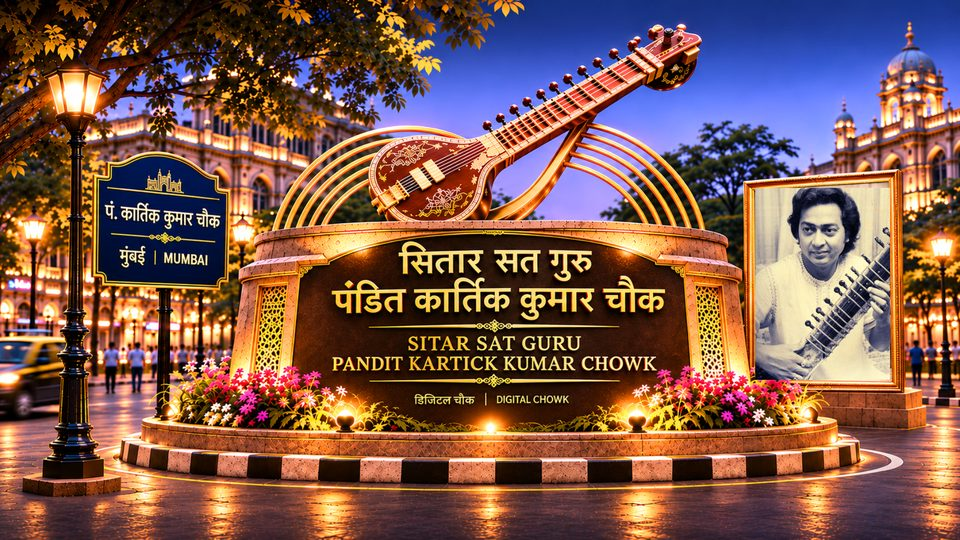
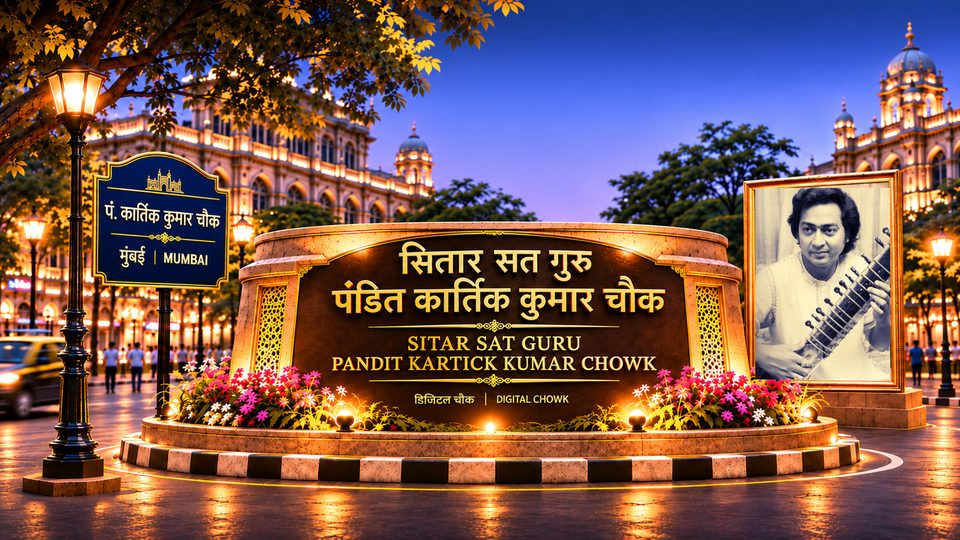
Sitar rests on the Chowk and travels through the page on scroll
- First section uses the new Chowk artwork (without a painted sitar);
  the 3D sitar rests on the monument's rim instead.
- The 3D sitar now lives in one fixed layer above the page and is pinned
  to a stop in each section: Chowk, hero, then the top of the Journey
  street (desktop). Scrolling lifts it, turns it once and glides it to
  the next stop; scrolling back reverses it.
- No-GPU fallback: the cut-out photo sits on the monument instead.
- Slow devices redraw only on scroll; drawing stops when off-screen or
  the tab is hidden. Fix an Escape-key error in the lightbox code.

diff --git a/js/sitar3d.js b/js/sitar3d.js
@@ -51,8 +51,7 @@ async function init() {
   const maxAniso = renderer.capabilities.getMaxAnisotropy();
 
   const scene = new THREE.Scene();
-  const camera = new THREE.PerspectiveCamera(28, 1.2, 0.1, 50);
-  camera.position.set(0, 0, 2.3);
+  const camera = new THREE.PerspectiveCamera(28, 1, 0.1, 50);   // fitted to the window in resize()
 
   /* ---------- deterministic randomness (same grain every load) ---------- */
   let seed = 11;
@@ -461,14 +460,15 @@ async function init() {
     window.__sitarDims = { overall: size(inst), gourd: size(gourdGroup), scale: SCALE, nut: NUT, neck: [NW, ND] };
   }
 
-  /* ---------- assemble: tilt (in-plane lean) -> spin (around its own length) ---------- */
+  /* ---------- assemble: holder (screen place + size) -> tilt (lean) -> spin (around its length) ---------- */
   inst.scale.setScalar(0.01);
   inst.position.y = -0.64;
+  const MODEL_LEN = 1.3;                         // world length of the sitar at holder scale 1
   const spin = new THREE.Group(); spin.add(inst);
-  const tilt = new THREE.Group(); tilt.add(spin); scene.add(tilt);
-  tilt.rotation.set(0.08, 0, -0.93);
+  const tilt = new THREE.Group(); tilt.add(spin);
+  const holder = new THREE.Group(); holder.add(tilt); scene.add(holder);
 
-  /* ---------- lantern motes ---------- */
+  /* ---------- lantern motes (travel with the sitar) ---------- */
   const N = 90, mp = new Float32Array(N * 3), ms = new Float32Array(N);
   for (let i = 0; i < N; i++) {
     mp[i * 3] = (rnd() - 0.5) * 1.9; mp[i * 3 + 1] = (rnd() - 0.5) * 1.4; mp[i * 3 + 2] = rnd() * 0.7 - 0.3;
@@ -478,9 +478,9 @@ async function init() {
   mg.setAttribute('position', new THREE.BufferAttribute(mp, 3));
   mg.setAttribute('aSeed', new THREE.BufferAttribute(ms, 1));
   const moteMat = new THREE.ShaderMaterial({
-    uniforms: { uTime: { value: 0 }, uPR: { value: renderer.getPixelRatio() } },
+    uniforms: { uTime: { value: 0 }, uPR: { value: renderer.getPixelRatio() }, uScale: { value: 1 } },
     vertexShader: `
-      attribute float aSeed; uniform float uTime; uniform float uPR; varying float vA;
+      attribute float aSeed; uniform float uTime; uniform float uPR; uniform float uScale; varying float vA;
       void main(){
         vec3 p = position;
         p.y = mod(p.y + 0.9 + uTime * (0.02 + aSeed * 0.03), 1.8) - 0.9;
@@ -488,7 +488,7 @@ async function init() {
         vec4 mv = modelViewMatrix * vec4(p, 1.0);
         float tw = 0.5 + 0.5 * sin(uTime * (1.4 + aSeed * 2.0) + aSeed * 30.0);
         vA = tw * (1.0 - smoothstep(0.55, 0.9, abs(p.y)));
-        gl_PointSize = (2.0 + aSeed * 3.5) * uPR * (3.6 / -mv.z);
+        gl_PointSize = (2.0 + aSeed * 3.5) * uPR * uScale * (6.0 / -mv.z);
         gl_Position = projectionMatrix * mv;
       }`,
     fragmentShader: `
@@ -504,30 +504,75 @@ async function init() {
   motes.visible = pose === null;
   scene.add(motes);
 
-  /* ---------- mount ---------- */
-  let visible = true, raf = 0, shown = false, still = pose !== null;
+  /* ---------- the sitar's resting places, one per section ----------
+     Each stop is pinned to a page element: `at` is a point in that element's box
+     (fractions), `len` the sitar's on-screen length, `ang` its angle above horizontal.
+     Moving into a stop happens while the element's top scrolls from `from` to `to`
+     (fractions of the viewport height); the sitar lifts, turns once and glides over. */
+  const mobile = () => window.matchMedia('(max-width: 860px)').matches;
+  const STOPS = [
+    // phones crop the image to its middle, so the sitar sits a little smaller and further left there
+    { el: '.chowk-stage', at: () => mobile() ? [0.555, 0.27] : [0.59, 0.245],
+      len: r => r.width * (mobile() ? 0.31 : 0.4), ang: 30 },
+    { el: '.hero', at: () => mobile() ? [0.5, 0.5] : [0.27, 0.5],
+      len: r => mobile() ? Math.min(r.width * 0.95, r.height * 0.62) : Math.min(r.width * 0.42, r.height * 0.7),
+      ang: 37, from: 0.85, to: 0.1 },
+    { el: '.jr-street', at: [0.37, 0.062], len: r => r.width * 0.27, ang: 11, from: 0.95, to: 0.3, desktopOnly: true }
+  ];
+  const ease = t => t * t * (3 - 2 * t);
+  const clamp01 = v => Math.max(0, Math.min(1, v));
+  const lerp = (a, b, t) => a + (b - a) * t;
+
+  function placement() {
+    const vh = window.innerHeight;
+    let p = null, turns = 0, hop = 0;
+    for (const st of STOPS) {
+      if (st.desktopOnly && mobile()) continue;
+      const el = document.querySelector(st.el);
+      if (!el) continue;
+      const r = el.getBoundingClientRect();
+      const at = typeof st.at === 'function' ? st.at() : st.at;
+      const q = { x: r.left + r.width * at[0], y: r.top + r.height * at[1], len: st.len(r), ang: st.ang };
+      if (!p) { p = q; continue; }
+      // never mid-flight before you scroll: start no lower than where this element sits at the top of the page
+      const fromPx = Math.min(st.from * vh, r.top + window.pageYOffset - 1);
+      const toPx = Math.min(st.to * vh, fromPx - 0.35 * vh);
+      const s = ease(clamp01((fromPx - r.top) / (fromPx - toPx)));
+      p = { x: lerp(p.x, q.x, s), y: lerp(p.y, q.y, s), len: lerp(p.len, q.len, s), ang: lerp(p.ang, q.ang, s) };
+      turns += s;
+      hop = Math.max(hop, Math.sin(Math.PI * s));
+    }
+    if (p) p.y -= hop * vh * 0.06;          // a small lift mid-flight
+    return { p, turns, hop };
+  }
+
+  /* ---------- mount: one fixed, page-wide layer above the sections ---------- */
+  let raf = 0, shown = false, still = pose !== null || reduce, wasOff = false;
   let last = 0, frames = 0, slowMs = 0, tier = 0;
   const cvs = renderer.domElement;
-  cvs.className = 'hero-sitar-3d';
+  cvs.className = 'kk-sitar-layer';
   cvs.setAttribute('role', 'img');
-  cvs.setAttribute('aria-label', 'Ornate carved sitar, rendered in 3D');
+  cvs.setAttribute('aria-label', 'Pandit Kartick Kumar\'s sitar in 3D, resting on the chowk and moving through the page as you scroll');
+  document.documentElement.classList.add('kk-3d');
   wrap.classList.add('is-3d');
-  wrap.appendChild(cvs);
-  // if the GPU drops the context, fall back to the static image
+  document.body.appendChild(cvs);
+  // if the GPU drops the context, fall back to the still images
   cvs.addEventListener('webglcontextlost', e => {
     e.preventDefault(); still = true;
     if (raf) cancelAnimationFrame(raf);
-    wrap.classList.remove('is-3d'); cvs.remove();
+    document.documentElement.classList.remove('kk-3d'); wrap.classList.remove('is-3d'); cvs.remove();
   });
 
+  const pixelRatio = () => Math.min(window.devicePixelRatio || 1, tier ? 1 : 1.5);
   function resize() {
-    const w = wrap.clientWidth, h = wrap.clientHeight;
-    if (!w || !h) return;
-    renderer.setSize(w, h, false);
-    camera.aspect = w / h; camera.updateProjectionMatrix();
-    if (reduce || still) render(performance.now());
+    renderer.setPixelRatio(pixelRatio());
+    renderer.setSize(window.innerWidth, window.innerHeight, false);
+    camera.aspect = window.innerWidth / window.innerHeight; camera.updateProjectionMatrix();
+    moteMat.uniforms.uPR.value = renderer.getPixelRatio();
+    requestRender();
   }
-  if (window.ResizeObserver) new ResizeObserver(resize).observe(wrap); else window.addEventListener('resize', resize);
+  camera.fov = 28; camera.position.set(0, 0, 6); camera.updateProjectionMatrix();
+  const worldPerPx = () => 2 * camera.position.z * Math.tan(THREE.MathUtils.degToRad(camera.fov / 2)) / window.innerHeight;
 
   /* ---------- motion ---------- */
   let mx = 0, my = 0, cx = 0, cy = 0;
@@ -538,24 +583,49 @@ async function init() {
   function render(t) {
     const s = t / 1000;
     cx += (mx - cx) * 0.05; cy += (my - cy) * 0.05;
-    const scrollK = Math.max(0, Math.min(-hero.getBoundingClientRect().top / window.innerHeight, 1));
+    const { p, turns } = placement();
+    if (!p) return;
+    const vh = window.innerHeight, vw = window.innerWidth;
+    const off = p.y < -p.len * 0.7 || p.y > vh + p.len * 0.7 || p.x < -p.len || p.x > vw + p.len;
+    if (off) { if (!wasOff) { renderer.clear(); wasOff = true; } return; }
+    wasOff = false;
+
+    const wpp = worldPerPx();
+    const k = p.len * wpp / MODEL_LEN;
+    holder.position.set((p.x - vw / 2) * wpp, -(p.y - vh / 2) * wpp, 0);
+    holder.scale.setScalar(k);
+    motes.position.copy(holder.position); motes.scale.setScalar(k * 1.1);
+    moteMat.uniforms.uScale.value = k;
+
+    const lean = -THREE.MathUtils.degToRad(90 - p.ang);
     if (pose !== null) {
       spin.rotation.y = pose;
-      if (upright) tilt.rotation.set(0, 0, 0);
+      tilt.rotation.set(upright ? 0 : 0.08, 0, upright ? 0 : lean);
     } else if (!reduce) {
-      spin.rotation.y = 0.2 + Math.sin(s * 0.35) * 0.42 + cx * 0.5 + scrollK * 0.7;
-      tilt.rotation.x = 0.08 + cy * 0.18;
-      tilt.rotation.z = -0.93 + Math.sin(s * 0.5) * 0.025;
-      tilt.position.y = Math.sin(s * 0.9) * 0.03;
+      spin.rotation.y = 0.2 + Math.sin(s * 0.35) * 0.3 + cx * 0.45 + turns * Math.PI * 2;
+      tilt.rotation.set(0.08 + cy * 0.15, 0, lean + Math.sin(s * 0.5) * 0.02);
+      holder.position.y += Math.sin(s * 0.9) * 0.012 * k;
     } else {
-      spin.rotation.y = 0.35;
+      spin.rotation.y = 0.25;
+      tilt.rotation.set(0.08, 0, lean);
     }
     moteMat.uniforms.uTime.value = s;
     renderer.render(scene, camera);
+    if (!shown) { shown = true; cvs.classList.add('on'); }
   }
 
-  // Adaptive quality: on a slow GPU drop to 1× resolution, and if that is
-  // still slow, hold a still frame instead of a stuttering animation.
+  // on-demand rendering (scroll / resize) when not animating continuously
+  let pending = false;
+  function requestRender() {
+    if (pending || (!still && raf)) return;
+    pending = true;
+    requestAnimationFrame(t => { pending = false; render(t); });
+  }
+  window.addEventListener('scroll', requestRender, { passive: true });
+  window.addEventListener('resize', resize);
+
+  // Adaptive quality: on a slow GPU drop to 1x resolution, and if that is
+  // still slow, render only when the page scrolls instead of every frame.
   function loop(t) {
     raf = 0;
     if (last) {
@@ -563,24 +633,20 @@ async function init() {
       if (frames > 5 && frames < 70) slowMs += dt;
       if (frames === 69 && slowMs / 64 > 45) {
         if (tier === 0 && renderer.getPixelRatio() > 1) {
-          tier = 1; renderer.setPixelRatio(1); moteMat.uniforms.uPR.value = 1; resize();
-          frames = 0; slowMs = 0;
+          tier = 1; resize(); frames = 0; slowMs = 0;
         } else { still = true; }
       }
     }
     last = t; frames++;
     render(t);
-    if (!shown) { shown = true; cvs.classList.add('on'); }
-    if (visible && !reduce && !still) raf = requestAnimationFrame(loop);
+    if (!still) raf = requestAnimationFrame(loop);
   }
-  if ('IntersectionObserver' in window) {
-    new IntersectionObserver(es => {
-      visible = es[0].isIntersecting;
-      if (visible && !raf && !reduce && !still) { last = 0; raf = requestAnimationFrame(loop); }
-    }).observe(hero);
-  }
+  document.addEventListener('visibilitychange', () => {
+    if (document.hidden) { if (raf) cancelAnimationFrame(raf); raf = 0; }
+    else if (!still && !raf) { last = 0; raf = requestAnimationFrame(loop); }
+  });
   resize();
-  raf = requestAnimationFrame(loop);
+  if (still) requestRender(); else raf = requestAnimationFrame(loop);
 }
 
 init();

diff --git a/css/styles.css b/css/styles.css
@@ -87,9 +87,14 @@ body::before{content:"";position:fixed;inset:0 0 auto;height:env(safe-area-inset
 
 /* ======================= THE CHOWK (opening scene) ======================= */
 .sr-only{position:absolute;width:1px;height:1px;padding:0;margin:-1px;overflow:hidden;clip:rect(0 0 0 0);white-space:nowrap;border:0}
-/* the artwork carries its own lettering, so it is shown whole: full width, never cropped */
+/* the artwork is shown whole on desktop; the 3D sitar (js/sitar3d.js) is pinned to points on this stage */
 .chowk{position:relative;background:#120d14;overflow:hidden}
-.chowk img{display:block;width:100%;height:auto;max-height:100vh;max-height:100svh;object-fit:contain;margin:0 auto}
+.chowk-stage{position:relative;width:min(100%,calc(100svh * 1.7768));aspect-ratio:1672/941;margin:0 auto}
+.chowk-art{position:absolute;inset:0;width:100%;height:100%;display:block}
+/* still photo of his sitar resting on the monument, for browsers without 3D */
+.chowk-still{position:absolute;left:39.4%;top:-4.6%;width:31%;height:auto;pointer-events:none;transform:rotate(6deg);transform-origin:15% 78%;
+  filter:brightness(.95) drop-shadow(0 0 1px rgba(255,214,150,.6)) drop-shadow(0 16px 18px rgba(0,0,0,.55))}
+.kk-3d .chowk-still{display:none}
 .chowk::after{content:"";position:absolute;left:0;right:0;bottom:0;height:16%;pointer-events:none;
   background:linear-gradient(rgba(5,5,6,0),#050506)}
 .chowk-cue{position:absolute;left:50%;bottom:clamp(10px,2.4vw,28px);transform:translateX(-50%);z-index:2;
@@ -101,7 +106,7 @@ body::before{content:"";position:fixed;inset:0 0 auto;height:env(safe-area-inset
 /* phones: crop to the central monument so its lettering stays readable */
 @media(max-width:860px){
   .chowk{padding-top:64px}
-  .chowk img{height:min(54svh,500px);max-height:none;object-fit:cover;object-position:50% 58%}
+  .chowk-stage{width:max(100%,calc(54svh * 1.7768));margin-left:50%;transform:translateX(-50%)}
 }
 
 /* ======================= HERO (cinematic, 3D) ======================= */
@@ -134,14 +139,12 @@ body::before{content:"";position:fixed;inset:0 0 auto;height:env(safe-area-inset
     drop-shadow(0 34px 34px rgba(0,0,0,.6))}
 @keyframes floatStill{0%,100%{transform:translateY(0) rotate(-.8deg)}50%{transform:translateY(-14px) rotate(.8deg)}}
 @media(max-width:860px){.hero-sitar-wrap:not(.is-3d){height:min(40vh,66vw)}}
-/* real-time 3D sitar (js/sitar3d.js); the <img> above is the fallback */
-.hero-sitar-wrap.is-3d{height:min(66vh,600px);aspect-ratio:1.2;left:27%}
-.hero-sitar-wrap.is-3d::before{content:"";position:absolute;inset:8% 4%;border-radius:50%;
-  background:radial-gradient(closest-side,rgba(255,170,90,.16),rgba(255,150,70,.05) 60%,transparent);pointer-events:none}
-.hero-sitar-wrap.is-3d .hero-sitar-float{display:none}
-.hero-sitar-3d{position:absolute;inset:0;width:100%;height:100%;display:block;opacity:0;transition:opacity .9s ease}
-.hero-sitar-3d.on{opacity:1}
-@media(max-width:860px){.hero-sitar-wrap.is-3d{height:auto;width:min(96vw,560px);left:50%}}
+/* the travelling 3D sitar lives in one fixed layer above the page (js/sitar3d.js);
+   the hero's still image is only the fallback */
+.hero-sitar-wrap.is-3d{visibility:hidden}
+.kk-sitar-layer{position:fixed;inset:0;width:100vw;height:100vh;z-index:30;pointer-events:none;
+  opacity:0;transition:opacity .9s ease}
+.kk-sitar-layer.on{opacity:1}
 
 /* ======================= SECTION SHELL ======================= */
 section{position:relative}

diff --git a/index.html b/index.html
@@ -26,9 +26,13 @@
 <!-- ======================= THE CHOWK (opening scene) ======================= -->
 <section class="chowk" aria-labelledby="chowkTitle">
   <h1 id="chowkTitle" class="sr-only">Sitar Sat Guru Pandit Kartick Kumar Chowk, Mumbai: Digital Chowk</h1>
-  <img src="assets/chowk.jpg" srcset="assets/chowk-960.jpg 960w, assets/chowk.jpg 1920w" sizes="100vw"
-       width="1920" height="1080" fetchpriority="high"
-       alt="The Sitar Sat Guru Pandit Kartick Kumar Chowk in Mumbai at dusk: a sandstone monument crowned with a gilded sitar, a blue street sign, and a framed portrait of the maestro with his sitar">
+  <div class="chowk-stage">
+    <img class="chowk-art" src="assets/chowk.jpg" srcset="assets/chowk-960.jpg 960w, assets/chowk.jpg 1672w" sizes="(max-width: 860px) 200vw, 100vw"
+         width="1672" height="941" fetchpriority="high"
+         alt="The Sitar Sat Guru Pandit Kartick Kumar Chowk in Mumbai at dusk: a sandstone monument with his name in Hindi and English, a blue street sign, and a framed portrait of the maestro with his sitar">
+    <!-- shown only when the 3D sitar can't run; otherwise the 3D sitar rests here -->
+    <img class="chowk-still" src="assets/hero-sitar.webp" width="1100" height="936" alt="" aria-hidden="true">
+  </div>
   <a class="chowk-cue" href="#chowkNext" aria-label="Scroll to enter the chowk">
     <svg viewBox="0 0 24 24" fill="none" stroke="currentColor" stroke-width="1.6" aria-hidden="true"><path d="m6 6 6 6 6-6M6 12l6 6 6-6"/></svg>
   </a>

diff --git a/js/script.js b/js/script.js
@@ -151,7 +151,7 @@
     lbi.src=fig.querySelector('img').src; lbi.alt=fig.querySelector('img').alt;
     lbc.textContent=fig.getAttribute('data-cap')||''; lb.classList.add('on');
   });
-  function closeLb(){ lb.classList.remove('on'); lbi.src=''; }
+  function closeLb(){ if(!lb) return; lb.classList.remove('on'); lbi.src=''; }
   var lbx=document.getElementById('lbx'); lbx && lbx.addEventListener('click', closeLb);
   lb && lb.addEventListener('click', function(e){ if(e.target===lb) closeLb(); });
   document.addEventListener('keydown', function(e){ if(e.key==='Escape') closeLb(); });
